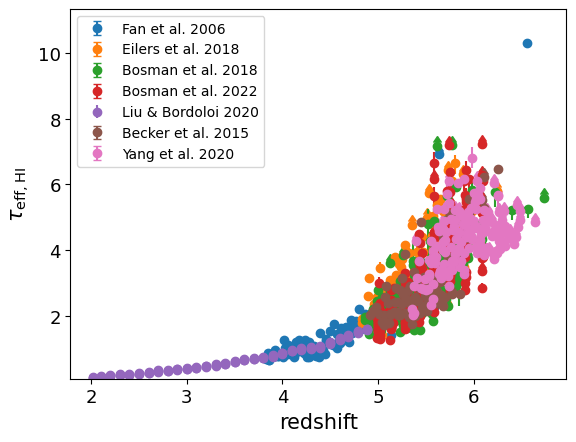
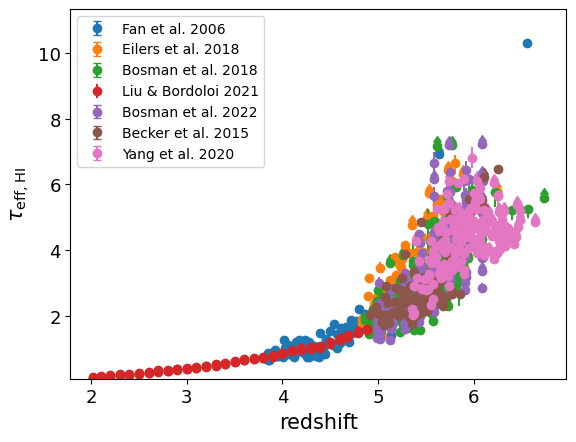
update docs

diff --git a/docs/datarst/effective_optical_depth_HI_Lya.rst b/docs/datarst/effective_optical_depth_HI_Lya.rst
@@ -55,11 +55,11 @@ Data
 
    <a href="https://iopscience.iop.org/article/10.1086/504836" target="_blank">Fan et al. 2006</a>
 
-|Liu & Bordoloi 2020|
+|Liu & Bordoloi 2021|
 
-.. |Liu & Bordoloi 2020| raw:: html
+.. |Liu & Bordoloi 2021| raw:: html
 
-   <a href="https://arxiv.org/abs/2006.04814" target="_blank">Liu & Bordoloi 2020</a>
+   <a href="https://ui.adsabs.harvard.edu/abs/2021MNRAS.502.3510L/abstract" target="_blank">Liu & Bordoloi 2021</a>
 
 |Yang et al. 2020|
 
